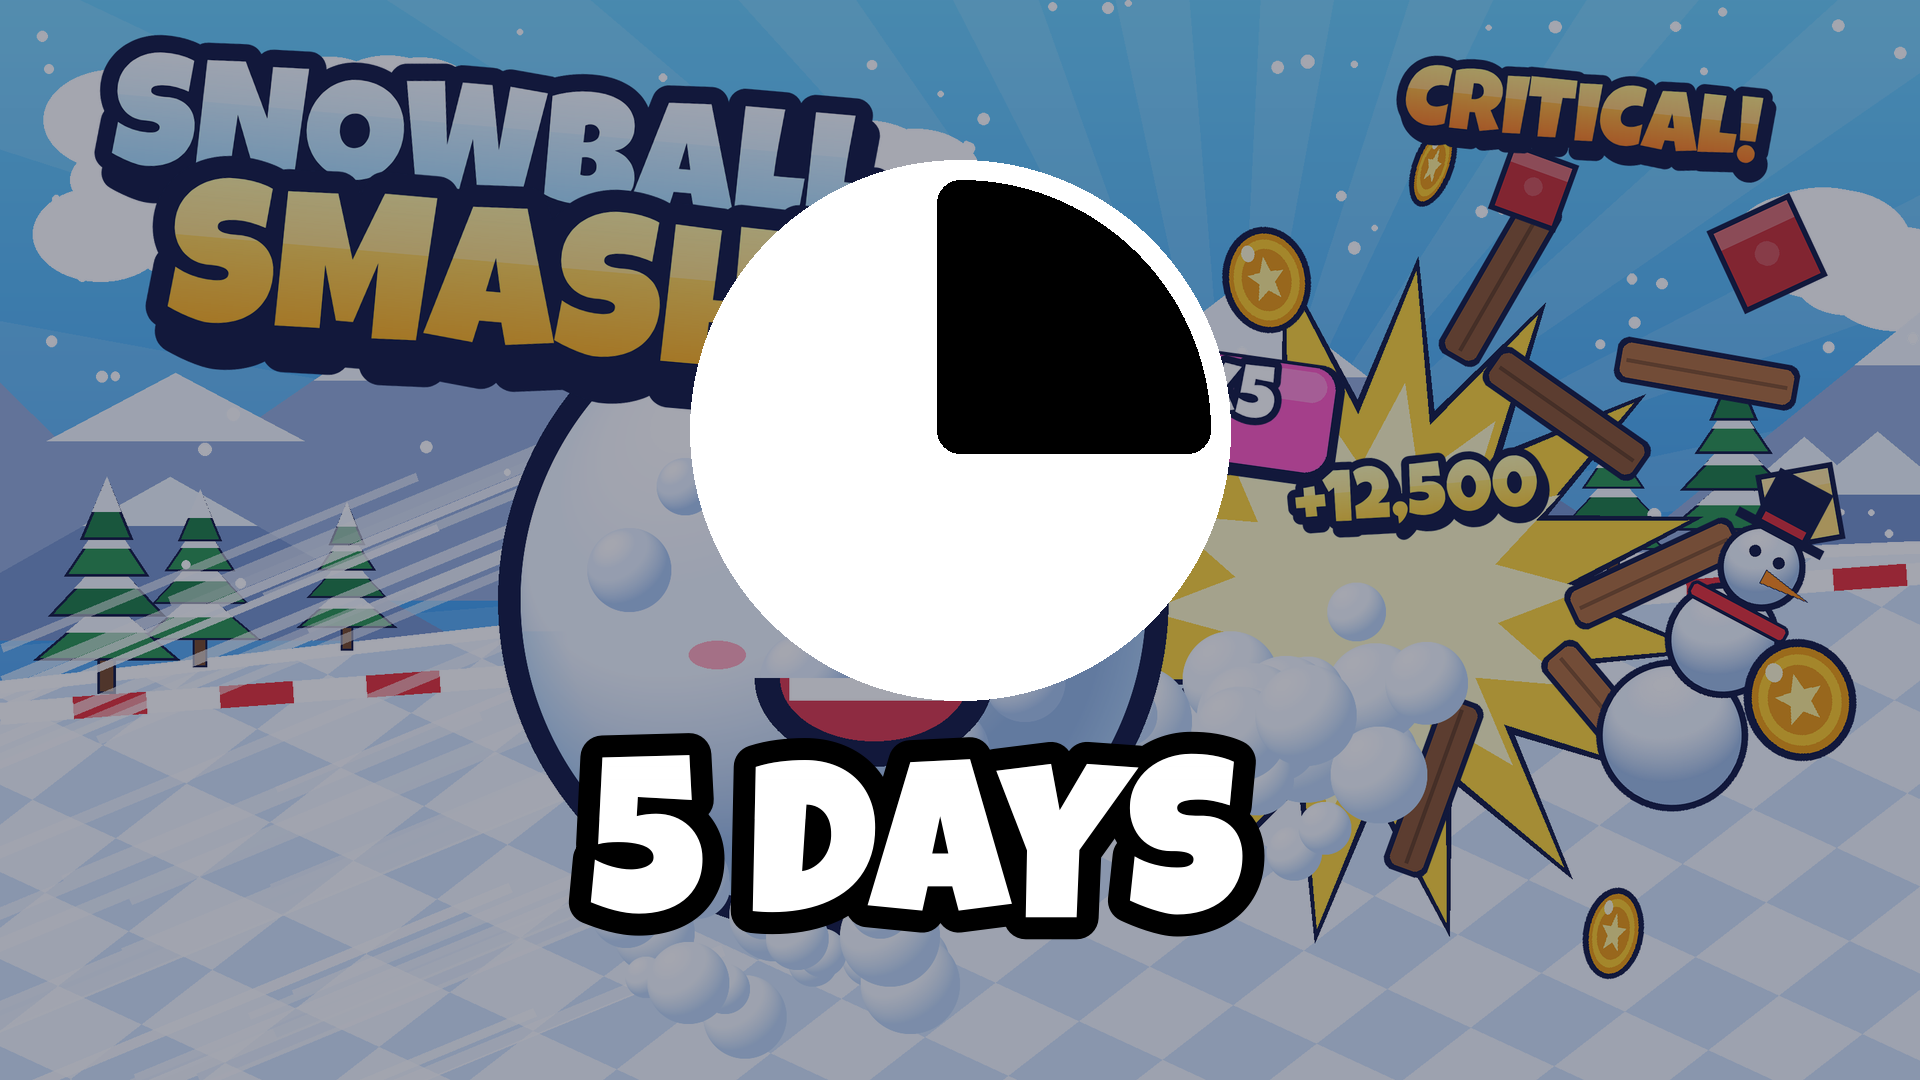
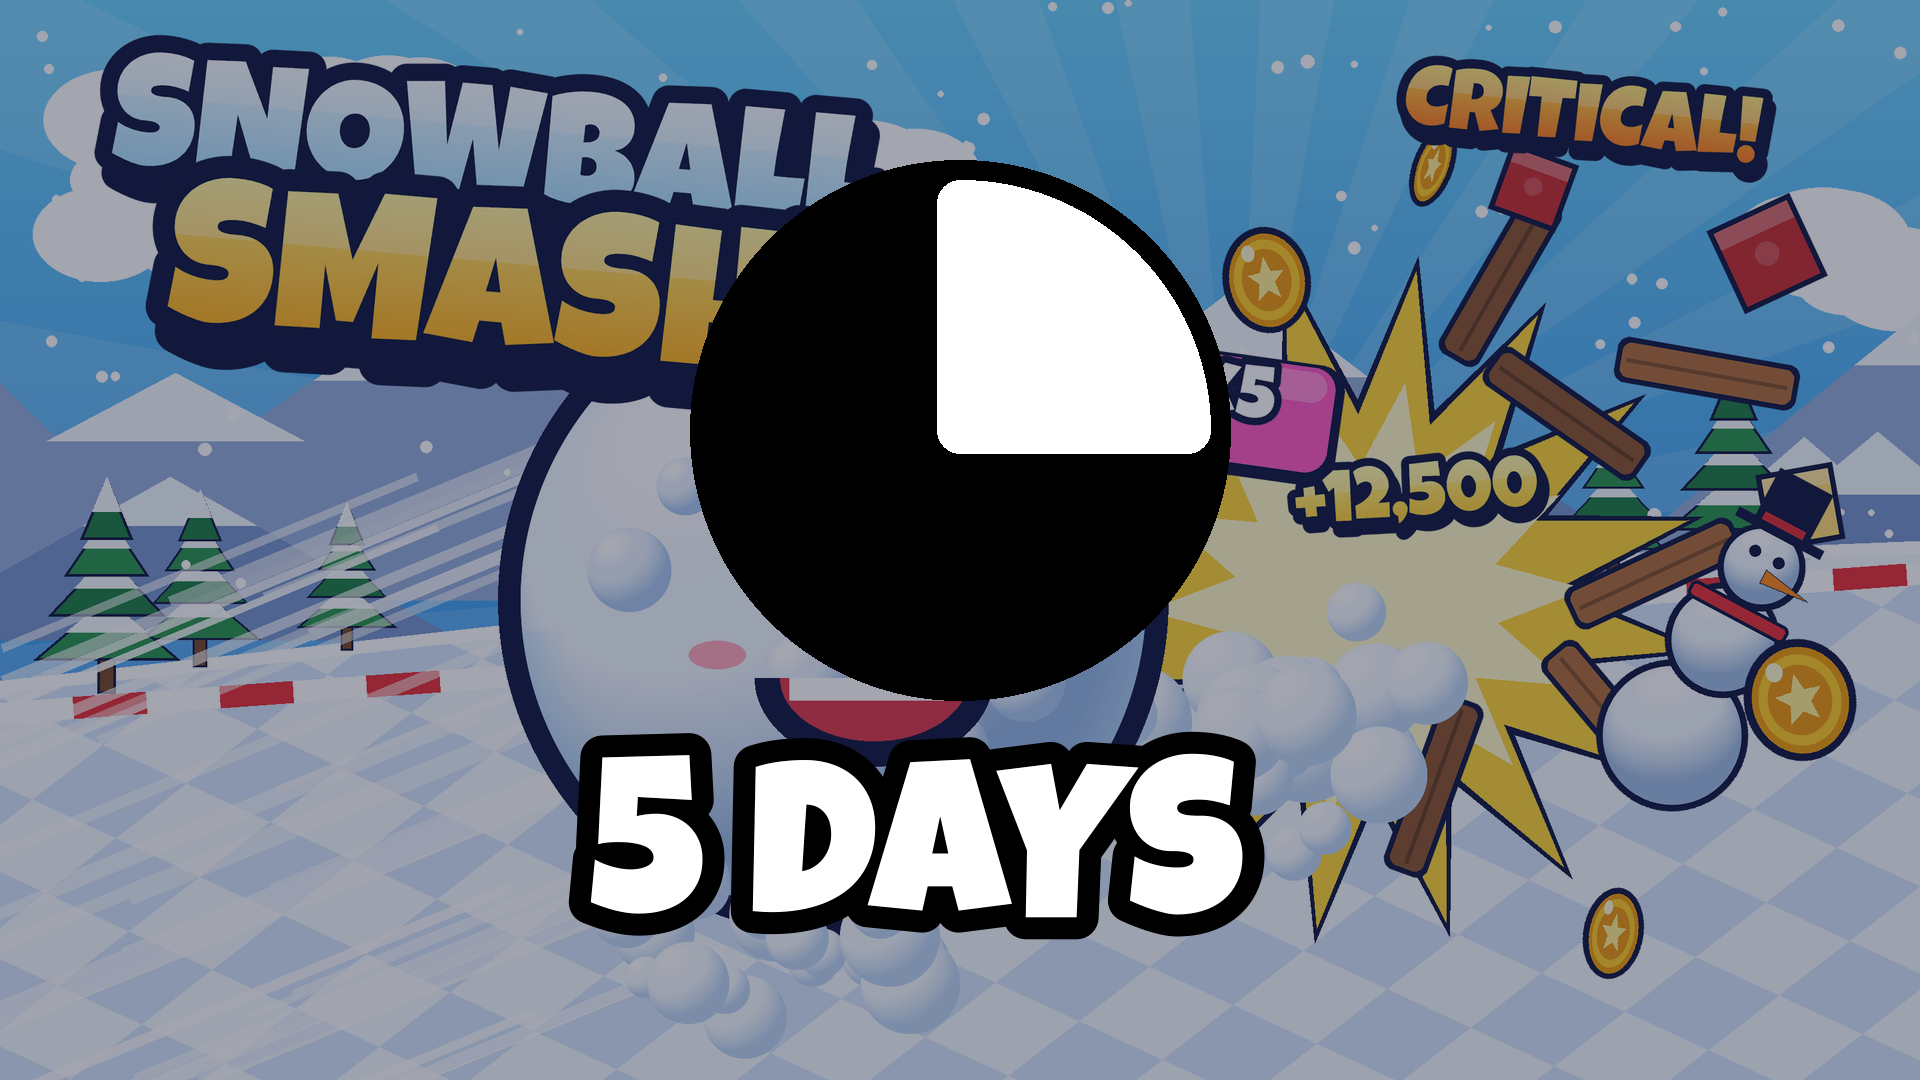
Countdown picture: black clock with white quarter and hands
Claude-Session: https://claude.ai/code/session_016w7ixMmfd54vVbmLXjoson

Changed region(s): [[0.3438, 0.1528, 0.6562, 0.6722]]

diff --git a/SnowballSmash/build/make_countdown.py b/SnowballSmash/build/make_countdown.py
@@ -22,18 +22,20 @@ img = Image.open("docs/art/thumbnail_1920x1080.png").convert("RGBA")
 # darken a little so the clock stands out, but keep the picture visible
 img.alpha_composite(Image.new("RGBA", (W, H), (10, 15, 40, 95)))
 
-# flat 2D clock: white face, two hands at 90 degrees (12 and 3 o'clock),
-# the quarter between the hands is black
+# flat 2D clock: black face, two hands at 90 degrees (12 and 3 o'clock),
+# the quarter between the hands is white
 BLACK = (0, 0, 0)
 WHITE = (255, 255, 255)
+FACE = BLACK  # clock face and rim
+MARK = WHITE  # quarter and hands
 d = ImageDraw.Draw(img)
 cx, cy, r = W / 2, 430, 270
-d.ellipse([cx - r, cy - r, cx + r, cy + r], fill=WHITE)
-rim = 20  # white ring that stays around the edge
+d.ellipse([cx - r, cy - r, cx + r, cy + r], fill=FACE)
+rim = 20  # ring of face colour that stays around the edge
 hw = 46  # hand thickness
 hand_len = r - rim - hw / 2
-# black quarter between the hands (PIL angles: 0 = 3 o'clock, -90 = 12 o'clock)
-d.pieslice([cx - r + rim, cy - r + rim, cx + r - rim, cy + r - rim], -90, 0, fill=BLACK)
+# quarter between the hands (PIL angles: 0 = 3 o'clock, -90 = 12 o'clock)
+d.pieslice([cx - r + rim, cy - r + rim, cx + r - rim, cy + r - rim], -90, 0, fill=MARK)
 
 
 def stroke(points, width, color):
@@ -43,9 +45,9 @@ def stroke(points, width, color):
 
 
 hands = [(cx, cy - hand_len), (cx + hand_len, cy)]
-# the hands: thick black lines with rounded ends, joined to the black quarter
+# the hands: thick lines with rounded ends, joined to the quarter
 for tip in hands:
-    stroke([(cx, cy), tip], hw, BLACK)
+    stroke([(cx, cy), tip], hw, MARK)
 
 
 # straight black-and-white text under the clock
